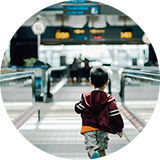
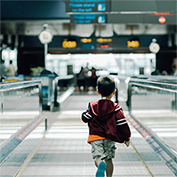
oh uj -)TOT perfect picture

diff --git a/style.css b/style.css
@@ -20,7 +20,7 @@
   font-family: 'Roboto';
   box-sizing: border-box;
 }
- h1, h2, h3, h4, h5, h6 {
+ h1, h2, h3, h4, h5, h6, p {
    margin-top: 0;
    margin-bottom: 0;
    font-weight: normal;
@@ -133,7 +133,7 @@ color: black;
   display: inline-block;
   width: 30%;
   font-size: 18px;
-  margin-bottom: 5px;
+  margin-bottom: 50px;
   margin-right: 15px;
   cursor: pointer;
   vertical-align: top;
@@ -204,43 +204,50 @@ li.price__string-item {
 } 
 /* НОВОСТИ */
 h3.section-title {
-margin-bottom: 45px;
+margin-bottom: 65px;
 }
-.news {
-  margin-top: 45px;
-}
+
 .news_list {
   padding-left: 0px;
 }
 .news__item {
   list-style-type: none;
-  padding-top: 15px;
-  padding-bottom: 15px;
-}
-.news__item:nth-child(2) {
+  padding-bottom: 27px;
+  margin-bottom: 27px;
   border-bottom: 2px solid #e8e9ed;
-  border-top: 2px solid #e8e9ed;
+}
+.news__item:last-child {
+  border-bottom: none;
 }
 .news__avatar {
   display: inline-block;
-  width: 160px;
-  height: 160px;
   left: 0;
   vertical-align: top;
-  margin-right: 30px;
+}
+.news__avatar-pic {
+  width: 160px;
+  height: 160px;
+  border-radius: 50%;
 }
  .news__info {
   display: inline-block;
   right: 0;
-  width: 600px;
+  width: 650px;
   height: 160px;
   overflow: hidden;
+  padding-left: 15px;
+  font-size: 15px;
 }
 .news__title {
   font-weight: bold;
+  padding-bottom: 11px;
 }
 .news__date {
-  padding-bottom: 10px;
+  padding-bottom: 4px;
+}
+.news__text {
+  font-size: 17px;
+  line-height: 1.7;
 }
 /* ПАГИНАТОР */
 .switcher {

diff --git a/index.html b/index.html
@@ -95,7 +95,7 @@
           <ul class="news_list">
             <li class="news__item">
               <div class="news__avatar">
-                <img src="img/n_ava/planeflying1.png" alt="" class="">
+                <img src="img/n_ava/planeflying1.png" alt="" class="news__avatar-pic">
               </div>
               <div class="news__info">
                 <div class="news__date">12.10.2016</div>
@@ -107,7 +107,7 @@
             </li>
             <li class="news__item">
               <div class="news__avatar">
-                <img src="img/n_ava/Photo.png" alt="" class="">
+                <img src="img/n_ava/Photo.png" alt="" class="news__avatar-pic">
               </div>
               <div class="news__info">
                 <div class="news__date">01.02.2016</div>
@@ -120,7 +120,7 @@
             </li>
             <li class="news__item">
               <div class="news__avatar">
-                <img src="img/n_ava/Layer 5.png" alt="" class="">
+                <img src="img/n_ava/Layer 5.png" alt="" class="news__avatar-pic">
               </div>
               <div class="news__info">
                 <div class="news__date">22.12.2015</div>
